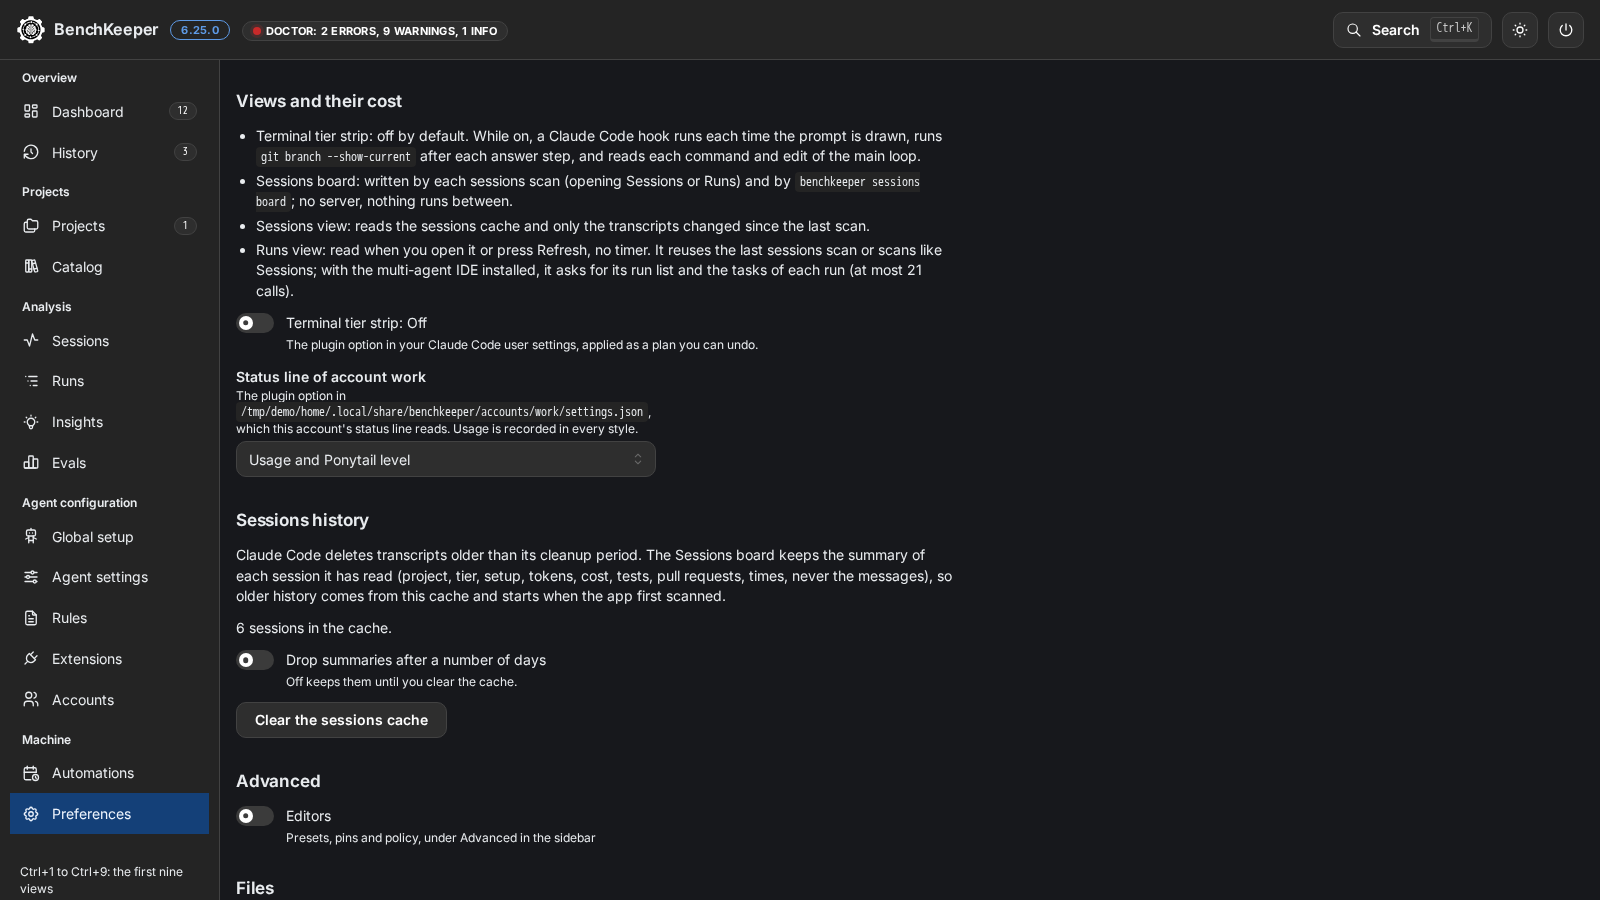
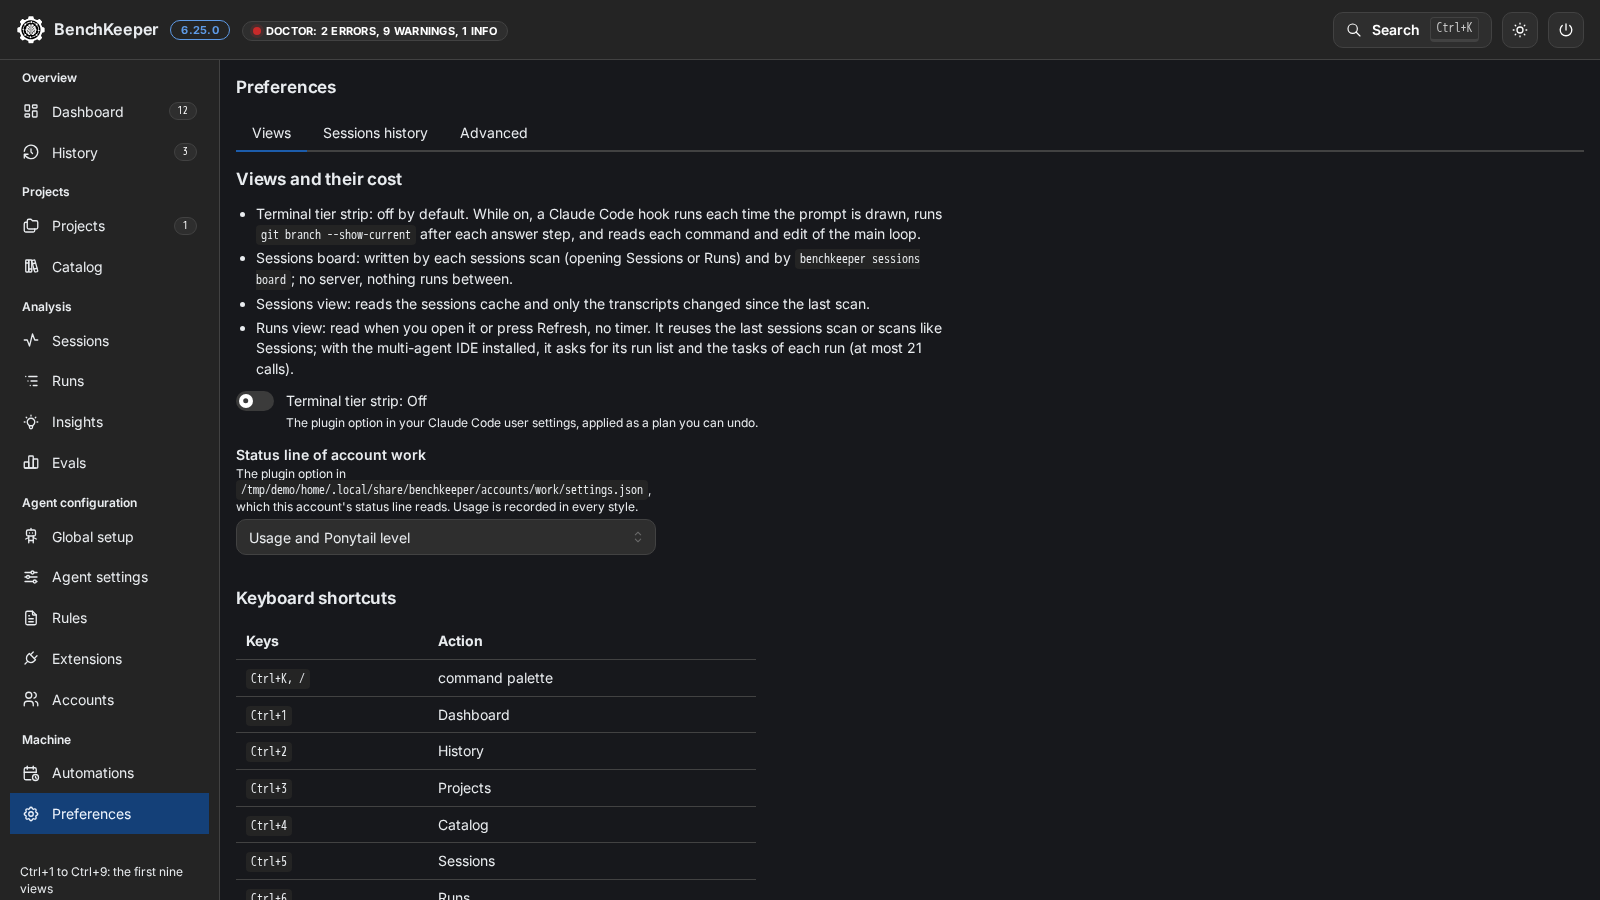
feat(app): show Preferences as Views, Sessions history and Advanced tabs (#847)
* feat(app): show Preferences as Views, Sessions history and Advanced tabs

Preferences opens on the Views tab: the cost of each view with the
terminal tier strip switch and the status line selects, then the
keyboard shortcuts with the / key switch. Sessions history holds the
retention of the sessions cache. Advanced holds the profile, the
editors switch, the config files and, last and set apart, Clear the
sessions cache with its dialog. Both sessions cache parts share one
read, so a Clear shows in the count of both tabs.

Refs #810

* chore: add the before and after pictures of Preferences for the pull request

Refs #810

* chore: remove the pull request pictures of Preferences

Refs #810

* fix(app): keep the effects of hidden Preferences tabs running

Mantine hides an inactive tab panel in React Activity by default, which runs the cleanup of its effects: a profile preview restarted and a plan being applied lost its running guard when another tab opened.

Refs #810

Changed region(s): [[0.125, 0.0933, 0.5938, 1.0], [0.25, 0.9956, 0.3125, 1.0]]

diff --git a/app/ui/sessionscache.jsx b/app/ui/sessionscache.jsx
@@ -2,11 +2,11 @@ import { Button, Group, Modal, NumberInput, Stack, Switch, Text, Title } from '@
 import { useEffect, useState } from 'react';
 import { api } from './api.js';
 import { Section } from './parts.jsx';
-import { Loading, Note, useApi } from './shell.jsx';
+import { Loading, Note } from './shell.jsx';
 
-// Preferences: how long the sessions cache keeps a summary after the agent deletes its transcript, and Clear.
-export function SessionsHistory() {
-  const cache = useApi('/api/sessions-cache');
+// Preferences: how long the sessions cache keeps a summary after the agent deletes its transcript, or (clear) Clear.
+// cache: useApi('/api/sessions-cache'), shared by both so a Clear shows in the count.
+export function SessionsHistory({ cache, clear }) {
   const [days, setDays] = useState(30);
   const [error, setError] = useState(null);
   const [done, setDone] = useState('');
@@ -20,21 +20,21 @@ export function SessionsHistory() {
     setBusy(false);
   };
   return (
-    <Section title="Sessions history">
-      <Text size="sm" maw={720}>Claude Code deletes transcripts older than its cleanup period. The Sessions board keeps the summary of each session it has read (project, tier, setup, tokens, cost, tests, pull requests, times, never the messages), so older history comes from this cache and starts when the app first scanned.</Text>
+    <Section title={clear ? 'Sessions cache' : 'Sessions history'}>
+      {!clear && <Text size="sm" maw={720}>Claude Code deletes transcripts older than its cleanup period. The Sessions board keeps the summary of each session it has read (project, tier, setup, tokens, cost, tests, pull requests, times, never the messages), so older history comes from this cache and starts when the app first scanned.</Text>}
       <Loading state={cache} label="sessions cache">{(c) => (
         <Stack gap="sm">
           <Text size="sm">{c.sessions} sessions in the cache.</Text>
-          <Switch label="Drop summaries after a number of days" description="Off keeps them until you clear the cache." checked={!!c.keepDays} disabled={busy}
-            onChange={(e) => send({ keepDays: e.currentTarget.checked ? Number(days) || 30 : null }, e.currentTarget.checked ? 'Retention set.' : 'Summaries are kept.')()} />
-          {!!c.keepDays && (
+          {!clear && <Switch label="Drop summaries after a number of days" description="Off keeps them until you clear the cache." checked={!!c.keepDays} disabled={busy}
+            onChange={(e) => send({ keepDays: e.currentTarget.checked ? Number(days) || 30 : null }, e.currentTarget.checked ? 'Retention set.' : 'Summaries are kept.')()} />}
+          {!clear && !!c.keepDays && (
             <Group align="flex-end">
               <NumberInput label="Days since the last activity" min={1} max={3650} allowDecimal={false} value={days} onChange={setDays} w={200} />
               <Button variant="default" loading={busy} disabled={!Number.isInteger(days) || days < 1} onClick={send({ keepDays: days }, 'Retention set.')}>Set days</Button>
             </Group>
           )}
-          <Group><Button variant="default" loading={busy} onClick={() => { cache.reload(); setAsking(true); }}>Clear the sessions cache</Button></Group>
-          <Modal opened={asking} onClose={() => setAsking(false)} withCloseButton={false} attributes={{ content: { 'aria-label': 'Clear the sessions cache?' } }}>
+          {clear && <Group><Button variant="default" loading={busy} onClick={() => { cache.reload(); setAsking(true); }}>Clear the sessions cache</Button></Group>}
+          {clear && <Modal opened={asking} onClose={() => setAsking(false)} withCloseButton={false} attributes={{ content: { 'aria-label': 'Clear the sessions cache?' } }}>
             <Stack gap="sm">
               <Title order={2} size="h4">Clear the sessions cache?</Title>
               <Text size="sm">{c.sessions} session {c.sessions === 1 ? 'summary goes' : 'summaries go'}. Those of transcripts the agent already deleted are gone for good; the next scan reads the others again.</Text>
@@ -43,7 +43,7 @@ export function SessionsHistory() {
                 <Button loading={cache.loading} onClick={() => { setAsking(false); void send({ clear: true }, 'Cache cleared.')(); }}>Clear the cache</Button>
               </Group>
             </Stack>
-          </Modal>
+          </Modal>}
           {done && <Text size="sm" role="status">{done}</Text>}
           {error && <Note color="red" title="Not changed">{error}</Note>}
         </Stack>

diff --git a/app/ui/views.jsx b/app/ui/views.jsx
@@ -1,4 +1,4 @@
-import { Anchor, Badge, Button, Checkbox, Code, Drawer, FileButton, Group, List, Loader, Modal, NavLink, Progress, SegmentedControl, Select, SimpleGrid, Stack, Switch, Table, Text, TextInput, Title, VisuallyHidden, useComputedColorScheme } from '@mantine/core';
+import { Anchor, Badge, Button, Checkbox, Code, Divider, Drawer, FileButton, Group, List, Loader, Modal, NavLink, Progress, SegmentedControl, Select, SimpleGrid, Stack, Switch, Table, Tabs, Text, TextInput, Title, VisuallyHidden, useComputedColorScheme } from '@mantine/core';
 import { IconDeviceFloppy, IconDownload, IconFolderSearch, IconFolders, IconListCheck, IconPackage, IconPlus, IconRefresh, IconTrash, IconUpload } from '@tabler/icons-react';
 import { Component, Suspense, lazy, useEffect, useRef, useState } from 'react';
 import { api } from './api.js';
@@ -595,10 +595,19 @@ function EditorSetting({ overview, refresh }) {
   );
 }
 
+// Three tabs; the one destructive button (Clear the sessions cache) sits last in Advanced. display-none keeps the effects
+// of a hidden tab running: a profile preview or a plan being applied goes on while another tab is open.
 export function Settings({ overview, refresh, keys }) {
+  const cache = useApi('/api/sessions-cache');
   return (
-    <Stack gap="xl">
-      <Profile overview={overview} refresh={refresh} />
+    <Tabs defaultValue="views" keepMountedMode="display-none">
+      <Tabs.List aria-label="Preferences">
+        <Tabs.Tab value="views">Views</Tabs.Tab>
+        <Tabs.Tab value="history">Sessions history</Tabs.Tab>
+        <Tabs.Tab value="advanced">Advanced</Tabs.Tab>
+      </Tabs.List>
+      <Tabs.Panel value="views" pt="md"><Stack gap="xl">
+      <Surfaces />
       <Section title="Keyboard shortcuts">
         <Table aria-label="Keyboard shortcuts" maw={520}>
           <Table.Thead><Table.Tr><Table.Th>Keys</Table.Th><Table.Th>Action</Table.Th></Table.Tr></Table.Thead>
@@ -606,8 +615,10 @@ export function Settings({ overview, refresh, keys }) {
         </Table>
         <Switch label="Open the command palette with the / key" description="Turn it off if a single-key shortcut gets in the way of speech input or screen reader keys." checked={keys.slash} onChange={(e) => keys.setSlash(e.currentTarget.checked)} />
       </Section>
-      <Surfaces />
-      <SessionsHistory />
+      </Stack></Tabs.Panel>
+      <Tabs.Panel value="history" pt="md"><SessionsHistory cache={cache} /></Tabs.Panel>
+      <Tabs.Panel value="advanced" pt="md"><Stack gap="xl">
+      <Profile overview={overview} refresh={refresh} />
       <EditorSetting overview={overview} refresh={refresh} />
       <Section title="Files">
         <List spacing={4} size="sm">
@@ -622,7 +633,10 @@ export function Settings({ overview, refresh, keys }) {
         </List>
         <Text size="sm"><Code>BENCHKEEPER_NO_UPDATE_CHECK=1</Code> turns off the registry request for a newer version. It runs only in a terminal and never installs.</Text>
       </Section>
-    </Stack>
+      <Divider />
+      <SessionsHistory cache={cache} clear />
+      </Stack></Tabs.Panel>
+    </Tabs>
   );
 }
 

diff --git a/web/src/components/AppPage.tsx b/web/src/components/AppPage.tsx
@@ -165,10 +165,10 @@ export const VIEWS: { id: string; view: string; title: string; shot: string; alt
   },
   {
     id: 'preferences', view: 'settings', title: 'Preferences', shot: 'preferences',
-    alt: 'The Preferences view: Views and their cost with the terminal tier strip switch and the status line select of the tracked account work, then the sessions history, the Advanced switch for editors and the config files.',
+    alt: 'The Preferences view on its Views tab, beside the tabs Sessions history and Advanced: Views and their cost with the terminal tier strip switch and the status line select of the tracked account work, then the keyboard shortcuts.',
     text: [
       'Export profile writes the agents, packs, own packs and registered projects with their answers as one file, without file contents, environment values or tokens; Import profile shows the changes it would make on this machine first.',
-      'The keyboard shortcuts, the switch for the / key that opens the command palette, the terminal tier strip, how long the sessions cache keeps summaries, the Advanced editors and the files the app keeps in its config folder.',
+      'The Views tab holds the terminal tier strip with what each view costs, the keyboard shortcuts and the switch for the / key that opens the command palette; Sessions history, how long the sessions cache keeps summaries; Advanced, the profile, the editors, the files the app keeps in its config folder and, last, Clear the sessions cache.',
       'Each account that accounts track set up has a status line select: usage windows and Ponytail level, one of them, or nothing. It changes that account\'s settings.json as a plan with undo.',
     ],
     cli: [`${V} profile export <file>`, `${V} profile import <file>`, `${V} sessions cache show`, `${V} accounts track <name>`],
